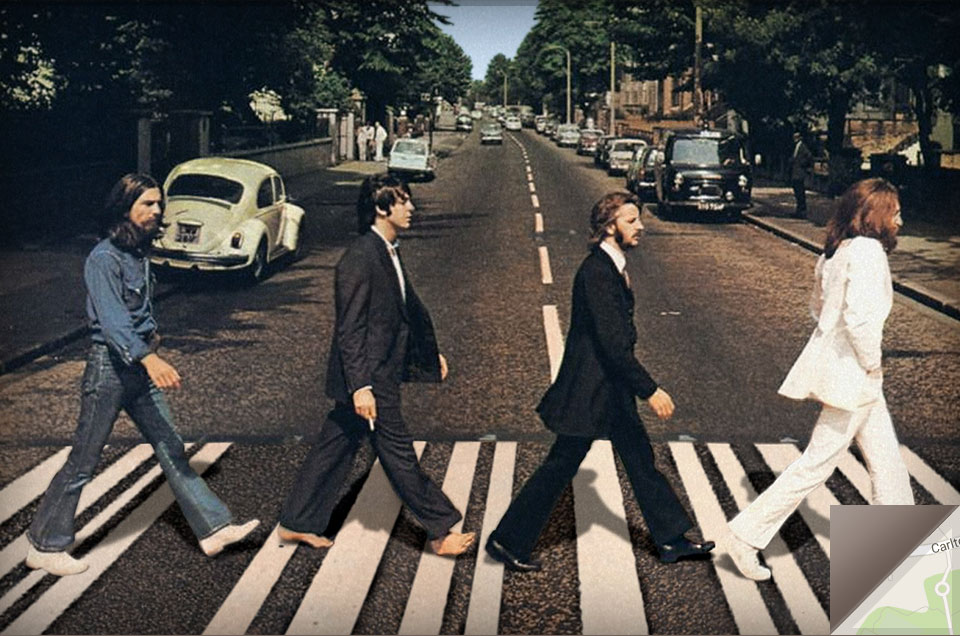
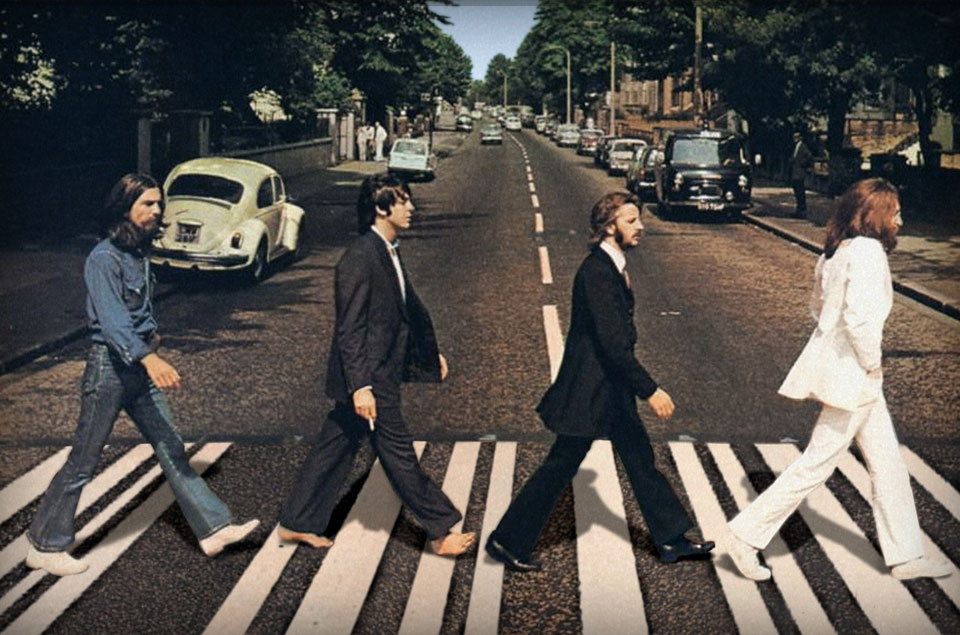
Add leaf turn

diff --git a/css/site.css b/css/site.css
@@ -447,12 +447,6 @@ a {
 a:hover,
 a:focus,
 a:active {
-  -moz-opacity: 0.9;
-  -khtml-opacity: 0.9;
-  -webkit-opacity: 0.9;
-  opacity: 0.9;
-  -ms-filter: progid:DXImageTransform.Microsoft.Alpha(opacity=90);
-  filter: alpha(opacity=90);
   text-decoration: underline;
 }
 .logo {
@@ -510,7 +504,7 @@ a:active {
 }
 .immigration p {
   font-size: 22px;
-  letter-spacing: -1px;
+  letter-spacing: -0.2px;
   line-height: 1.32;
 }
 .immigration em {
@@ -703,6 +697,47 @@ a:active {
   padding-top: 10px;
   padding-bottom: 30px;
 }
+.famous-blocks .map {
+  position: relative;
+}
+.famous-blocks .map-link,
+.famous-blocks .google-map,
+.famous-blocks .google-map img,
+.famous-blocks .leaf-turn {
+  position: absolute;
+  right: 0px;
+  bottom: 0px;
+}
+.famous-blocks .leaf-turn,
+.famous-blocks .map-link {
+  z-index: 10;
+}
+.famous-blocks .google-map,
+.famous-blocks .leaf-turn {
+  width: 90px;
+  height: 90px;
+  transition: all 0.5s;
+  -webkit-transition: all 0.5s;
+}
+.famous-blocks .map-link {
+  bottom: 9px;
+  width: 130px;
+  height: 130px;
+}
+.famous-blocks .map-link:hover .leaf-turn,
+.famous-blocks .map-link:hover .google-map {
+  width: 130px;
+  height: 130px;
+  right: 0px;
+  bottom: 0px;
+}
+.famous-blocks .google-map {
+  z-index: 9;
+  overflow: hidden;
+}
+.famous-blocks .google-map img {
+  max-width: none;
+}
 .immigration {
   padding-top: 153px;
   padding-right: 20px;
@@ -723,7 +758,7 @@ a:active {
 }
 .immigration p {
   font-size: 22px;
-  letter-spacing: -1px;
+  letter-spacing: -0.2px;
   line-height: 1.32;
 }
 .immigration em {

diff --git a/index.html b/index.html
@@ -129,7 +129,15 @@
 					<div class="famous-blocks">
 						<h2 class="upper text-center oswald">Displaying (Famous) Blocks</h2>
 						<div class="figure merriweather-light">
-							<img src="/images/abbey-road.jpg" alt="Abbey Road Photograph" />
+							<div class="map">
+								<img src="/images/abbey-road.jpg" alt="Abbey Road Photograph">
+								<a class="map-link" href="https://maps.google.co.uk/maps?q=NW8+9AY&hl=en&ll=51.531294,-0.176125&spn=0.013415,0.024526&sll=51.532033,-0.177332&sspn=0.004946,0.009656&layer=c&cbll=51.532001,-0.177275&panoid=mbe-Y0NH0D6_36VRX4KFZw&cbp=12,326.41,,0,7.7&hnear=NW8+9AY,+United+Kingdom&t=h&z=16&source=gplus-ogsb">
+									<img class="leaf-turn" src="/images/leaf-turn.png">
+									<div class="google-map">
+										<img src="/images/map.jpg">
+									</div>
+								</a>
+							</div>
 							<p>Abbey Road is a thoroughfare located in the borough of Camden and the City of Westminster in London, running roughly northwest to southeast through St. John’s Wood, near Lord’s Cricket Ground. It is part of the B507. This road is best known for the Abbey Road Studios and the 1969 album, Abbey Road, by The Beatles.
 							</p>
 							<p class="fig-caption crunch">Photo: goo.gl/h44dc9</p>

diff --git a/less/blocks.less b/less/blocks.less
@@ -21,4 +21,43 @@
     padding-top:10px;
     padding-bottom:30px;
   }
+  .map {
+    position:relative;
+  }
+  .map-link, .google-map, .google-map img, .leaf-turn {
+    position: absolute;
+    right: 0px;
+    bottom: 0px;
+  }
+  .leaf-turn, .map-link {
+    z-index:10;
+  }
+  .google-map, .leaf-turn {
+    width:90px;
+    height:90px;
+    transition:(all 0.5s);
+    -webkit-transition:(all 0.5s);
+  }
+  .map-link {
+    bottom: 9px;
+    width:130px;
+    height:130px;
+
+    &:hover {
+      .leaf-turn, .google-map {
+        width:130px;
+        height:130px;
+        right: 0px;
+        bottom: 0px;
+      }
+    }
+  }
+  .google-map {
+    z-index:9;
+    overflow:hidden;
+
+    img {
+      max-width:none;
+    }
+  }
 }

diff --git a/less/general.less b/less/general.less
@@ -20,7 +20,6 @@ a {
   text-decoration: none;
 
   &:hover, &:focus, &:active {
-    .opacity(0.9);
     text-decoration:underline;
   }
 }

diff --git a/less/immigration.less b/less/immigration.less
@@ -18,7 +18,7 @@
   }
   p{
     font-size:22px;
-    letter-spacing:-1px;
+    letter-spacing:-0.2px;
     line-height:1.32;
   }
   em {
